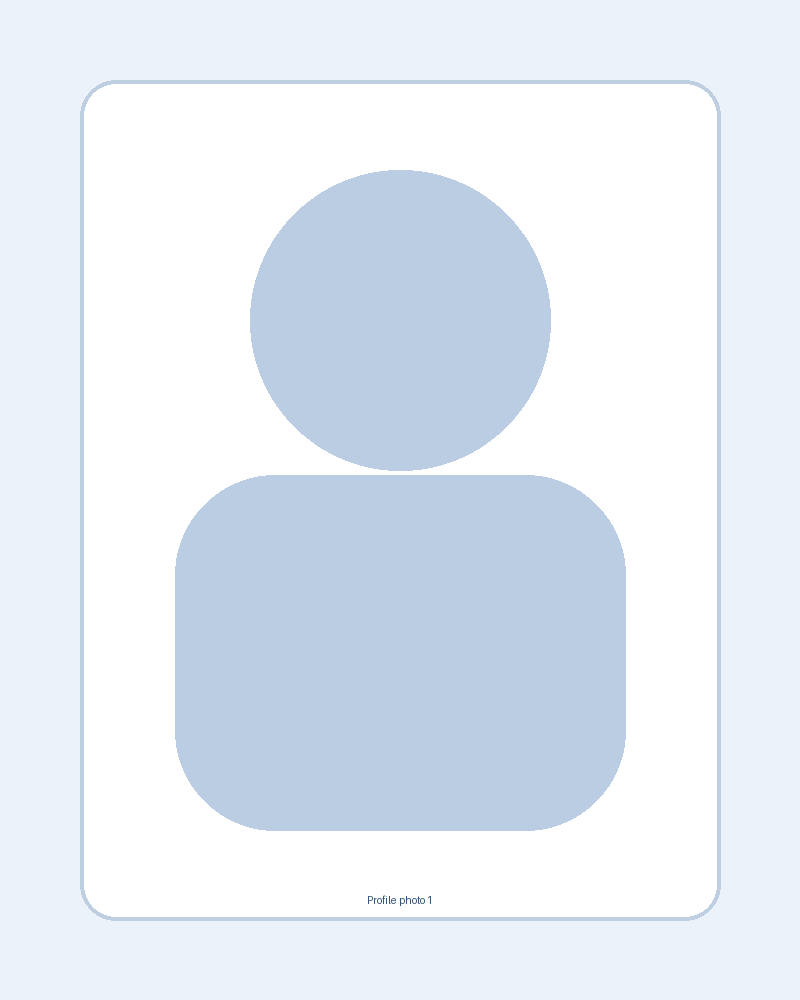
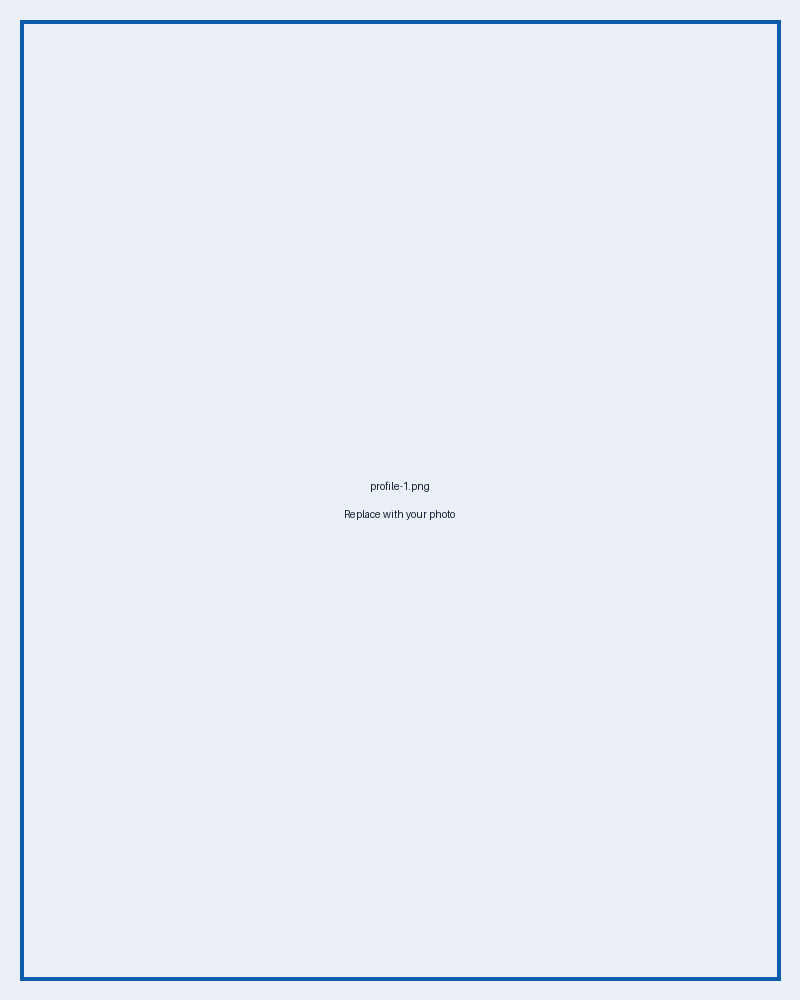
Add files via upload

diff --git a/assets/style.css b/assets/style.css
@@ -6,9 +6,8 @@
   --text:#142033;
   --muted:#5e6b7c;
   --primary:#0b5cab;
-  --accent:#00a0b0;
   --line:#dce4ee;
-  --shadow:0 16px 42px rgba(25,52,82,.10);
+  --shadow:0 8px 24px rgba(0,0,0,.04);
   --radius:12px;
   --max:1080px;
 }
@@ -23,14 +22,14 @@ code{padding:.1rem .35rem;border-radius:4px;background:#eceff3}
 .muted{color:var(--muted)}
 .skip-link{position:fixed;top:-4rem;left:1rem;background:#fff;padding:.5rem .75rem;border:1px solid var(--line);border-radius:6px}
 .skip-link:focus{top:1rem}
-.site-header{position:sticky;top:0;z-index:20;background:rgba(247,249,252,.94);border-bottom:1px solid var(--line)}
+.site-header{position:sticky;top:0;z-index:20;background:rgba(247,249,252,.96);border-bottom:1px solid var(--line)}
 .nav-wrap{min-height:64px;display:flex;align-items:center;justify-content:space-between}
-.brand{display:grid;place-items:center;width:38px;height:38px;border-radius:8px;background:linear-gradient(135deg,var(--primary),var(--accent));color:#fff;font-weight:700;text-decoration:none;border:1px solid var(--line)}
+.brand{display:grid;place-items:center;width:38px;height:38px;border-radius:8px;background:#e9edf1;color:var(--primary);font-weight:700;text-decoration:none;border:1px solid var(--line)}
 .site-nav{display:flex;gap:1.2rem}
 .site-nav a{color:var(--text);text-decoration:none;font-size:.95rem}
 .site-nav a:hover{color:var(--primary)}
 .nav-toggle{display:none;border:0;background:transparent;font-size:1.1rem;color:var(--text)}
-.hero{padding:84px 0 58px;background:radial-gradient(circle at 88% 10%,rgba(0,160,176,.16),transparent 28%),linear-gradient(145deg,#f7f9fc,#edf4fb)}
+.hero{padding:72px 0 44px;background:var(--bg)}
 .hero-grid{display:grid;grid-template-columns:1.5fr .9fr;gap:40px;align-items:start}
 .eyebrow{margin:0 0 .45rem;color:var(--primary);font-weight:700;letter-spacing:.08em;text-transform:uppercase;font-size:.78rem}
 h1{margin:0 0 .75rem;font-size:clamp(2.4rem,5vw,3.6rem);line-height:1.08;letter-spacing:-.03em}
@@ -38,19 +37,15 @@ h2{margin:0 0 1rem;font-size:clamp(1.6rem,3vw,2.2rem);line-height:1.2}
 h3{margin:.2rem 0 .6rem;font-size:1.1rem}
 .subtitle{margin:.2rem 0;color:var(--text)}
 .hero-copy{margin:1.2rem 0 0;max-width:760px;color:var(--muted)}
-.interest-card,.publication-item,.profile-photo-card{background:var(--surface);border:1px solid var(--line);border-radius:var(--radius);box-shadow:var(--shadow)}
-
-.profile-photo-grid{display:grid;grid-template-columns:1fr 1fr;gap:1rem}
-.profile-photo-card{margin:0;overflow:hidden;aspect-ratio:4/5}
-.profile-photo-card img{width:100%;height:100%;display:block;object-fit:cover}
-.timeline-note{display:inline-block;margin-top:.35rem;color:var(--muted);font-size:.92rem;font-weight:500}
-
+.simple-card,.interest-card,.publication-item{background:var(--surface);border:1px solid var(--line);border-radius:var(--radius);box-shadow:var(--shadow)}
+.simple-card{padding:1.25rem 1.3rem}
+.plain-list{list-style:none;padding:0;margin:0}
+.plain-list li+li{margin-top:1rem}
 .section{padding:64px 0}
 .alt-section{background:var(--alt)}
 .section-heading{margin-bottom:1.8rem}
 .interest-grid{display:grid;grid-template-columns:repeat(2,1fr);gap:1rem}
-.interest-card{padding:1.35rem}
-.interest-card>i{display:grid;place-items:center;width:46px;height:46px;margin-bottom:1.15rem;border-radius:12px;background:#e9f2fb;color:var(--primary);font-size:1.05rem}
+.interest-card{padding:1.25rem}
 .interest-card p{margin:0;color:var(--muted)}
 .timeline{list-style:none;margin:0;padding:0 0 0 1.1rem;border-left:2px solid #ccd4dc}
 .timeline li{position:relative;display:grid;grid-template-columns:180px 1fr;gap:1.5rem;padding:0 0 1.8rem 1.4rem}
@@ -61,7 +56,7 @@ h3{margin:.2rem 0 .6rem;font-size:1.1rem}
 .button:hover{background:#f6f7f8}
 .publication-controls{display:flex;flex-wrap:wrap;gap:.55rem;align-items:center;margin-bottom:1.3rem}
 .filter{padding:.48rem .75rem;border:1px solid var(--line);border-radius:999px;background:#fff;cursor:pointer;color:var(--text)}
-.filter.active,.filter:hover{background:linear-gradient(135deg,var(--primary),var(--accent));color:#fff}
+.filter.active,.filter:hover{background:#e9edf1;color:var(--primary)}
 .search-box{margin-left:auto;display:flex;align-items:center;gap:.45rem;min-width:260px;padding:.48rem .8rem;border:1px solid var(--line);border-radius:999px;background:#fff}
 .search-box input{width:100%;border:0;outline:0;background:transparent}
 .publication-status{margin-bottom:1rem;color:var(--muted)}
@@ -90,7 +85,6 @@ h3{margin:.2rem 0 .6rem;font-size:1.1rem}
 .footer-wrap a{text-decoration:none;color:var(--primary)}
 @media (max-width: 900px){
   .hero-grid,.two-column,.interest-grid{grid-template-columns:1fr}
-  .profile-photo-grid{max-width:560px}
 }
 @media (max-width: 720px){
   .container{width:min(calc(100% - 28px),var(--max))}
@@ -102,6 +96,12 @@ h3{margin:.2rem 0 .6rem;font-size:1.1rem}
   .publication-heading{display:block}
   .search-box{width:100%;min-width:0;margin-left:0}
   .publication-year{grid-template-columns:1fr;gap:.5rem}
-  .profile-photo-grid{grid-template-columns:1fr 1fr;gap:.7rem}
 }
 
+/* Targeted v4 additions: preserve restrained layout while restoring icons and blue palette. */
+.profile-photo-grid{display:grid;grid-template-columns:1fr 1fr;gap:1rem}
+.profile-photo-card{margin:0;overflow:hidden;aspect-ratio:4/5;background:#fff;border:1px solid var(--line);border-radius:var(--radius);box-shadow:var(--shadow)}
+.profile-photo-card img{width:100%;height:100%;display:block;object-fit:cover}
+.interest-card>i{display:grid;place-items:center;width:44px;height:44px;margin-bottom:1rem;border-radius:10px;background:#e9f2fb;color:var(--primary)}
+.timeline-note{display:inline-block;margin-top:.3rem;color:var(--muted);font-size:.92rem;font-weight:500}
+@media(max-width:900px){.profile-photo-grid{max-width:560px}}

diff --git a/index.html b/index.html
@@ -38,12 +38,8 @@
       </div>
       <aside class="hero-side" aria-label="Profile photographs">
         <div class="profile-photo-grid">
-          <figure class="profile-photo-card">
-            <img src="assets/profile-1.png" alt="Portrait photograph of Hikaru Nishiyama">
-          </figure>
-          <figure class="profile-photo-card">
-            <img src="assets/profile-2.png" alt="Portrait photograph of Hikaru Nishiyama">
-          </figure>
+          <figure class="profile-photo-card"><img src="assets/profile-1.png" alt="Portrait photograph of Hikaru Nishiyama"></figure>
+          <figure class="profile-photo-card"><img src="assets/profile-2.png" alt="Portrait photograph of Hikaru Nishiyama"></figure>
         </div>
       </aside>
     </div>
@@ -89,7 +85,7 @@
       <ol class="timeline">
         <li><span>2025.04 – Present</span><div><strong>Researcher</strong><br>Cyber-Physical Security Research Institute (CPSEC), National Institute of Advanced Industrial Science and Technology (AIST)</div></li>
         <li><span>2024.04 – 2025.03</span><div><strong>Researcher</strong><br>Cyber-Physical Security Research Center (CPSEC), National Institute of Advanced Industrial Science and Technology (AIST)</div></li>
-        <li><span>2021.04 – 2024.03</span><div><strong>Doctoral Course Student</strong><br>Division of Information Science, Nara Institute of Science and Technology (NAIST)<br><span class="timeline-note">Fellow, MEXT University Fellowship Program</span></div></li>
+        <li><span>2021.04 – 2024.03</span><div><strong>Doctoral Course Student</strong><br>Division of Information Science, Nara Institute of Science and Technology (NAIST)<br><span class="timeline-note">MEXT University Fellowship Program</span></div></li>
         <li><span>2019.04 – 2021.03</span><div><strong>Master Course Student</strong><br>Division of Information Science, Nara Institute of Science and Technology (NAIST)</div></li>
         <li><span>2012.04 – 2019.03</span><div><strong>Bachelor Course Student</strong><br>National Institute of Technology, Sasebo College (NITS)</div></li>
       </ol>

diff --git a/README.md b/README.md
@@ -24,7 +24,3 @@ Edit `PROFILE_LINKS` in `assets/site.js`. Current links are Google Scholar, Rese
 python3 -m http.server 8000
 ```
 Then open `http://localhost:8000`.
-
-
-## Replace profile photographs
-Replace `assets/profile-1.png` and `assets/profile-2.png` with your own PNG photographs, keeping the same filenames. Portrait images with an aspect ratio close to 4:5 are recommended.
